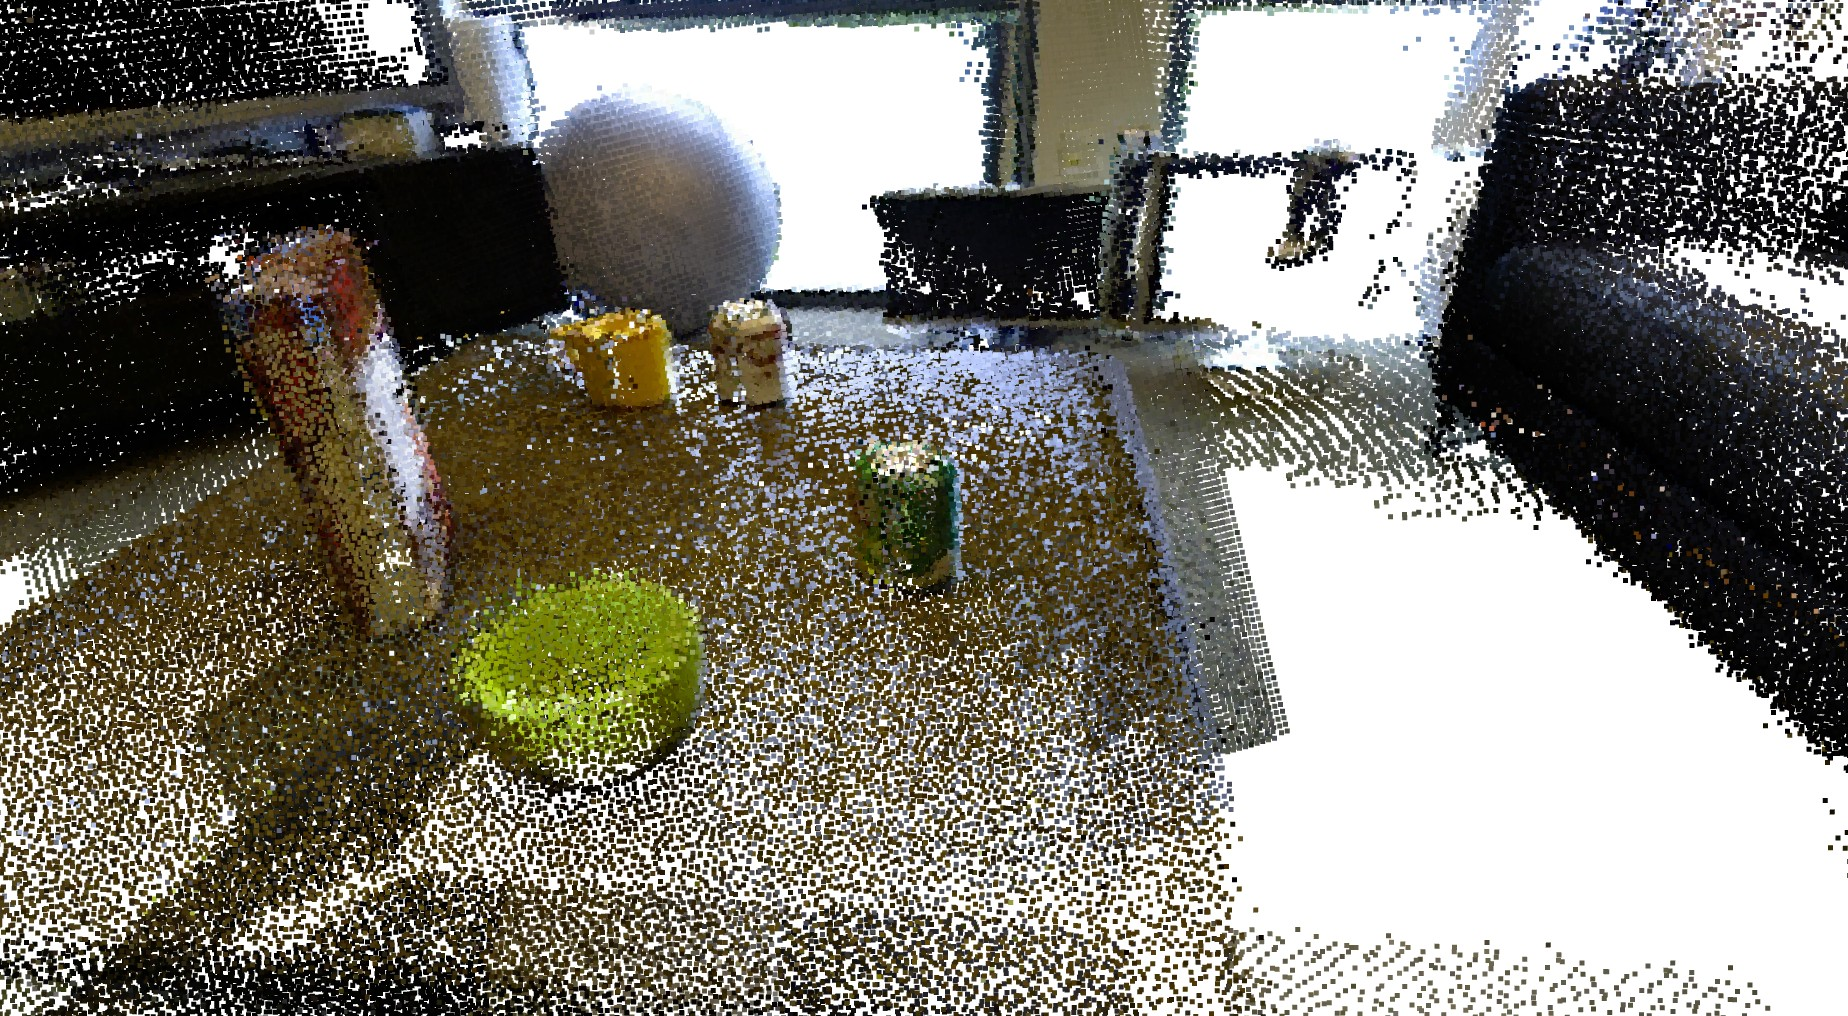
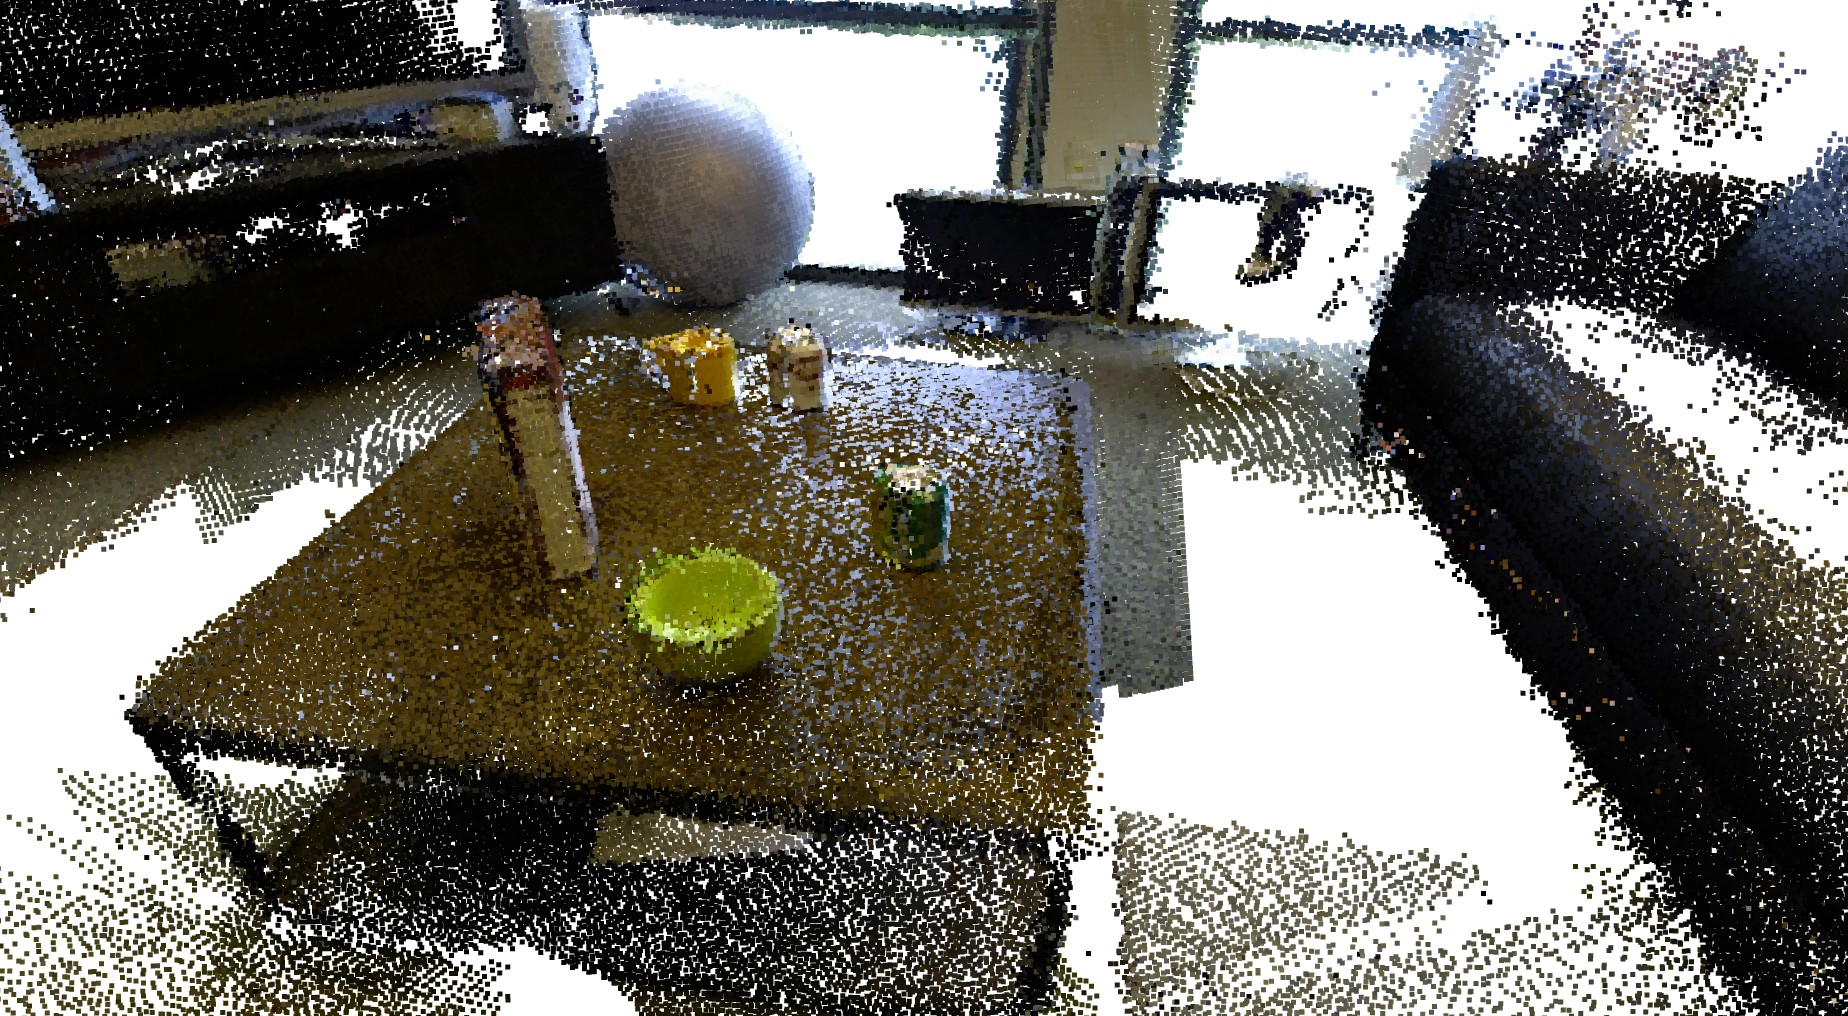
ta direito agora

diff --git a/Jota/main.py b/Jota/main.py
@@ -95,7 +95,7 @@ def main():
     # ------------------------------------------
 
     # Ex1
-    p.preProcess(voxel_size=0.03)
+    p.preProcess(voxel_size=0.01)
 
     # Ex2
     p.transform(-108,0,0,0,0,0)
